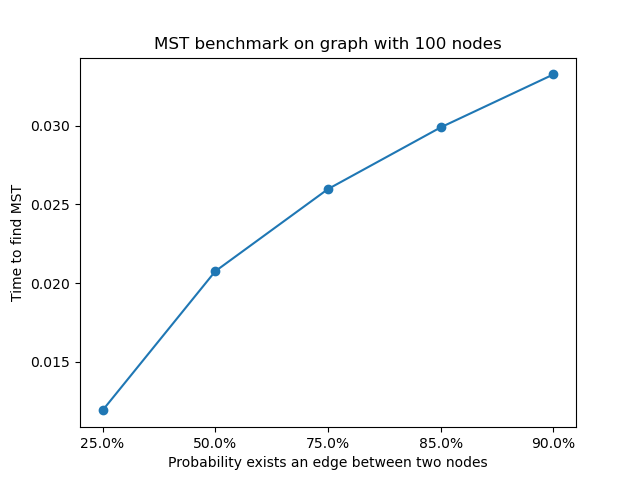
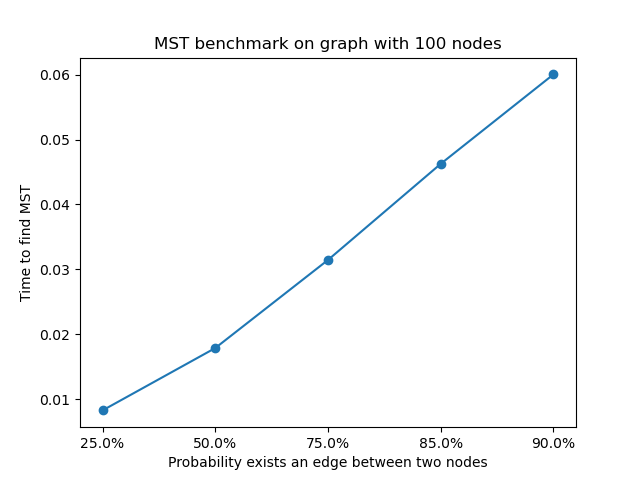
Remove pickle files. They are too large.

diff --git a/experiment.py b/experiment.py
@@ -13,7 +13,7 @@ def evaluate_experiment(probabilities, dim):
     for prob in probabilities:
         p.append(str(prob*100) + "%")
     df['Probabilities'] = p
-    graph = Graph.Graph()
+    del p
     path_cost = []
     m_elapsed = []
     elapsed = []
@@ -24,6 +24,7 @@ def evaluate_experiment(probabilities, dim):
             file_list.append(files)
     for files in file_list:
         for i in range(1, 11):
+            print("evauating " + files + " " + str(i))
             name = 'db/' + files
             file = open(name, 'rb')
             graph = pickle.load(file)  # load file and calculate MST
@@ -32,6 +33,7 @@ def evaluate_experiment(probabilities, dim):
             weight = MST_Kruskal.MST_Kruskal(graph)
             end = time.perf_counter()
             elapsed.append(end - start)
+            print(str(end - start) + " " + str(i))
         m_elapsed.append(sum(elapsed)/10)
         path_cost.append(weight) # don't calculate the average because is always the same
     df['MST_time'] = m_elapsed
@@ -51,18 +53,19 @@ def evaluate_experiment(probabilities, dim):
 
 
 # this function generate random graphs, takes in input probability 
-def generate_random_graph(prob, dimensions):
-    n_nodes = dimensions
-    for node in n_nodes:
-        file_name = "db/graph_" + str(node) + "_prob_" + str(prob) + ".pickle"
-        if os.path.isfile(file_name): # if exist don't create new files
-            continue
-        else:
-            graph = Graph.Graph(node)
-            graph.random_weighted_graph(prob)
-            file = open(file_name, 'wb')
-            pickle.dump(graph, file)
-            file.close()
+def generate_random_graph(probabilities, dimensions):
+    for prob in probabilities:
+        for n_nodes in dimensions:
+            file_name = "db/graph_" + str(n_nodes) + "_prob_" + str(prob) + ".pickle"
+            if os.path.isfile(file_name): # if exist don't create new files
+                continue
+            else:
+                graph = Graph.Graph(n_nodes)
+                graph.random_weighted_graph(prob)
+                file = open(file_name, 'wb')
+                pickle.dump(graph, file)
+                file.close()
+                del graph
     
 
 
@@ -73,9 +76,8 @@ def start_experiment():
         print("Directory already exist")
         pass
     probabilities = [0.25, 0.5, 0.75, 0.85, 0.9] # list of probability threshold
-    dimensions = [10, 50, 100, 500, 1000, 5000]
-    for prob in probabilities:
-        generate_random_graph(prob, dimensions)
+    dimensions = [2500]#[10, 50, 100, 500, 1000, 5000]
+    generate_random_graph(probabilities, dimensions)
     for dim in dimensions:
         evaluate_experiment(probabilities, dim)
     

diff --git a/Graph.py b/Graph.py
@@ -29,8 +29,8 @@ class Graph(object):
             for v in range(self.size):
                 if u != v:
                     prob = np.random.uniform(0, 1)
-                    if prob > threshold:    # if prob is more that threshold add an edge. ie: threshold = 0.25 => prob to add an edge 75%
-                        self.graph[u, v] = int(np.random.uniform(1, 100))
+                    if prob < threshold:    # if prob is less then threshold add an edge. ie: threshold = 0.25 => prob to add an edge 25%
+                        self.graph[u, v] = int(np.random.uniform(1, 10000))
                         if ((u, v) not in self.edges or (v, u) not in self.edges):
                             self.edges.update({(u, v): self.graph[u, v]})
 
@@ -84,3 +84,13 @@ class Graph(object):
 
     def load_graph(self, file):
         self.graph = pickle.load(file)
+
+    def make_random_weighted(self, threshold):
+        for u in range(self.size):
+            for v in range(self.size):
+                if u != v:
+                    prob = np.random.uniform(0, 1)
+                    if prob < threshold:    # if prob is more that threshold add an edge. ie: threshold = 0.25 => prob to add an edge 75%
+                        self.graph[u, v] = int(np.random.uniform(1, 10000))
+                        if ((u, v) not in self.edges or (v, u) not in self.edges):
+                            self.edges.update({(u, v): self.graph[u, v]})

diff --git a/UnionFind.py b/UnionFind.py
@@ -10,7 +10,7 @@ class UnionFind(object):
 			if self.find_set(edge[0]) != self.find_set(edge[1]):
 				self.union(self.find_set(edge[0]), self.find_set(edge[1]))
 
-	def make_set(self, node): #crea un nuovo insieme Si
+	def make_set(self, node): # crea un nuovo insieme Si
 		s = set([node])  # insiemi disgiunti nodi
 		if s not in self.set:
 			self.set.append(s)  # S = Si U {x}
@@ -37,7 +37,7 @@ class UnionFind(object):
 	def print_representative(self):
 		print(self.representative)
 
-	def find_set(self, x): #return representative of set that contains x
+	def find_set(self, x): # return representative of set that contains x
 		for key in self.representative:
 			if x in self.representative[key]:
 				return key

diff --git a/results/graph_1000_.tex b/results/graph_1000_.tex
@@ -1,11 +1,11 @@
 \begin{tabular}{llrr}
 \toprule
-{} & Probabilities &  MST\_time &  Path\_cost \\
+{} & Probabilities &   MST\_time &  Path\_cost \\
 \midrule
-0 &         25.0\% &  2.701953 &      999.0 \\
-1 &         50.0\% &  4.551288 &      999.0 \\
-2 &         75.0\% &  5.546819 &     1000.0 \\
-3 &         85.0\% &  6.208323 &     1048.0 \\
-4 &         90.0\% &  6.722794 &     1163.0 \\
+0 &         25.0\% &   1.045031 &    26176.0 \\
+1 &         50.0\% &   2.969714 &    12626.0 \\
+2 &         75.0\% &   5.760157 &     8538.0 \\
+3 &         85.0\% &   8.972535 &     7808.0 \\
+4 &         90.0\% &  12.403965 &     7163.0 \\
 \bottomrule
 \end{tabular}

diff --git a/results/graph_100_.tex b/results/graph_100_.tex
@@ -2,10 +2,10 @@
 \toprule
 {} & Probabilities &  MST\_time &  Path\_cost \\
 \midrule
-0 &         25.0\% &  0.011906 &      131.0 \\
-1 &         50.0\% &  0.020753 &      174.0 \\
-2 &         75.0\% &  0.025981 &      264.0 \\
-3 &         85.0\% &  0.029904 &      434.0 \\
-4 &         90.0\% &  0.033272 &      534.0 \\
+0 &         25.0\% &  0.008245 &    24883.0 \\
+1 &         50.0\% &  0.017859 &     9868.0 \\
+2 &         75.0\% &  0.031444 &     6892.0 \\
+3 &         85.0\% &  0.046263 &     8566.0 \\
+4 &         90.0\% &  0.060053 &     6414.0 \\
 \bottomrule
 \end{tabular}

diff --git a/results/graph_10_.tex b/results/graph_10_.tex
@@ -2,10 +2,10 @@
 \toprule
 {} & Probabilities &  MST\_time &  Path\_cost \\
 \midrule
-0 &         25.0\% &  0.000263 &       45.0 \\
-1 &         50.0\% &  0.000380 &      140.0 \\
-2 &         75.0\% &  0.000476 &      237.0 \\
-3 &         85.0\% &  0.000565 &      261.0 \\
-4 &         90.0\% &  0.000637 &      356.0 \\
+0 &         25.0\% &  0.000262 &    11127.0 \\
+1 &         50.0\% &  0.000510 &    12499.0 \\
+2 &         75.0\% &  0.000799 &     6869.0 \\
+3 &         85.0\% &  0.001122 &     2726.0 \\
+4 &         90.0\% &  0.001438 &     6477.0 \\
 \bottomrule
 \end{tabular}

diff --git a/results/graph_500_.tex b/results/graph_500_.tex
@@ -2,10 +2,10 @@
 \toprule
 {} & Probabilities &  MST\_time &  Path\_cost \\
 \midrule
-0 &         25.0\% &  0.511374 &      500.0 \\
-1 &         50.0\% &  0.855336 &      501.0 \\
-2 &         75.0\% &  1.048762 &      545.0 \\
-3 &         85.0\% &  1.187361 &      682.0 \\
-4 &         90.0\% &  1.292856 &      897.0 \\
+0 &         25.0\% &  0.197628 &    26038.0 \\
+1 &         50.0\% &  0.552959 &    11326.0 \\
+2 &         75.0\% &  1.092492 &     8525.0 \\
+3 &         85.0\% &  1.697614 &     7610.0 \\
+4 &         90.0\% &  2.339602 &     6730.0 \\
 \bottomrule
 \end{tabular}

diff --git a/results/graph_50_.tex b/results/graph_50_.tex
@@ -2,10 +2,10 @@
 \toprule
 {} & Probabilities &  MST\_time &  Path\_cost \\
 \midrule
-0 &         25.0\% &  0.002594 &      109.0 \\
-1 &         50.0\% &  0.004494 &      117.0 \\
-2 &         75.0\% &  0.005761 &      203.0 \\
-3 &         85.0\% &  0.006824 &      376.0 \\
-4 &         90.0\% &  0.007765 &      659.0 \\
+0 &         25.0\% &  0.002843 &    16512.0 \\
+1 &         50.0\% &  0.005578 &    14709.0 \\
+2 &         75.0\% &  0.008240 &     8793.0 \\
+3 &         85.0\% &  0.011446 &     6604.0 \\
+4 &         90.0\% &  0.015005 &     6798.0 \\
 \bottomrule
 \end{tabular}

diff --git a/results/graph_2500_.tex b/results/graph_2500_.tex
@@ -1,0 +1,11 @@
+\begin{tabular}{llrr}
+\toprule
+{} & Probabilities &    MST\_time &  Path\_cost \\
+\midrule
+0 &         25.0\% &   13.503932 &    24769.0 \\
+1 &         50.0\% &   38.902847 &    13361.0 \\
+2 &         75.0\% &   75.102103 &     9374.0 \\
+3 &         85.0\% &  116.598347 &     8377.0 \\
+4 &         90.0\% &  160.019772 &     8064.0 \\
+\bottomrule
+\end{tabular}
